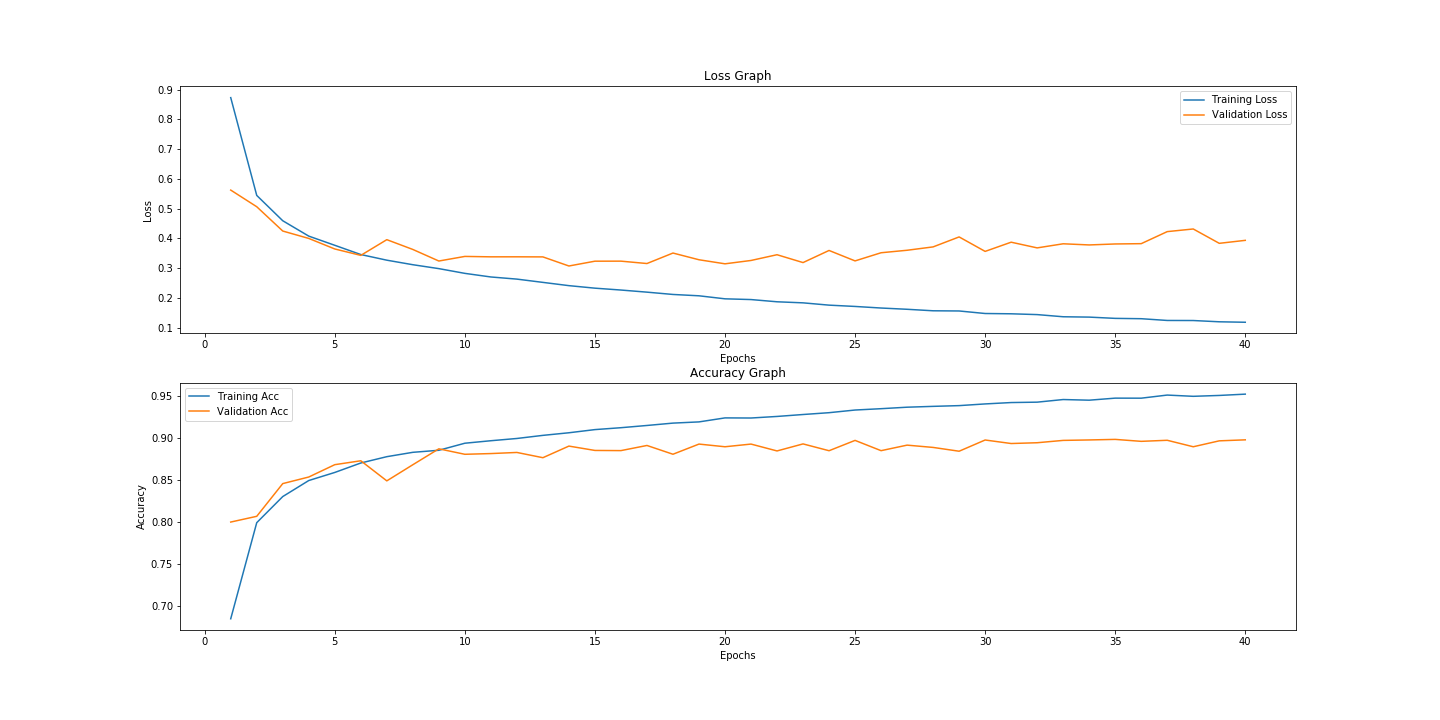
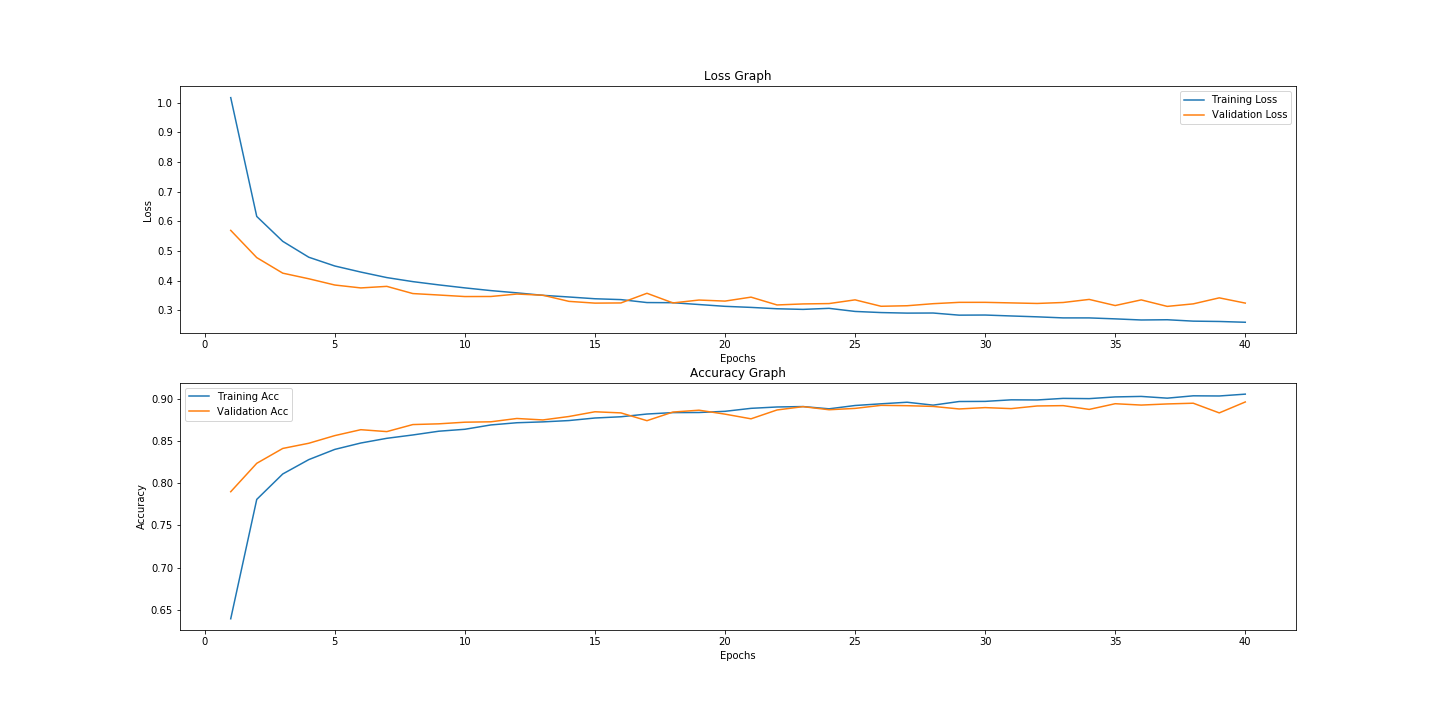
added dropout with multiple layers, still best is 1 hidden layer with 128 units and first layer with 512 units

diff --git a/fashion_mnist_trial.py b/fashion_mnist_trial.py
@@ -55,9 +55,9 @@ val_y = train_y[int(len(train_y)*0.75):]
 #units_out = [512, 256, 128, 64, 32, 16]
 #units_in = [128, 64, 32, 16]
 
-lyrs = [1]
-units_out = [512]
-units_in = [128]
+lyrs = [1, 2, 3]
+units_out = [16, 64, 512]
+units_in = [16, 64, 128]
 
 #make model
 for lyr in lyrs:
@@ -68,9 +68,11 @@ for lyr in lyrs:
             
             model = models.Sequential()
             model.add(layers.Dense(unit_out, activation='relu', input_shape=(784,)))
+            model.add(layers.Dropout(0.5))
             
             for i in range(lyr):
                 model.add(layers.Dense(unit_in, activation='relu'))
+                model.add(layers.Dropout(0.5))
             
             model.add(layers.Dense(10, activation = 'sigmoid'))
             
